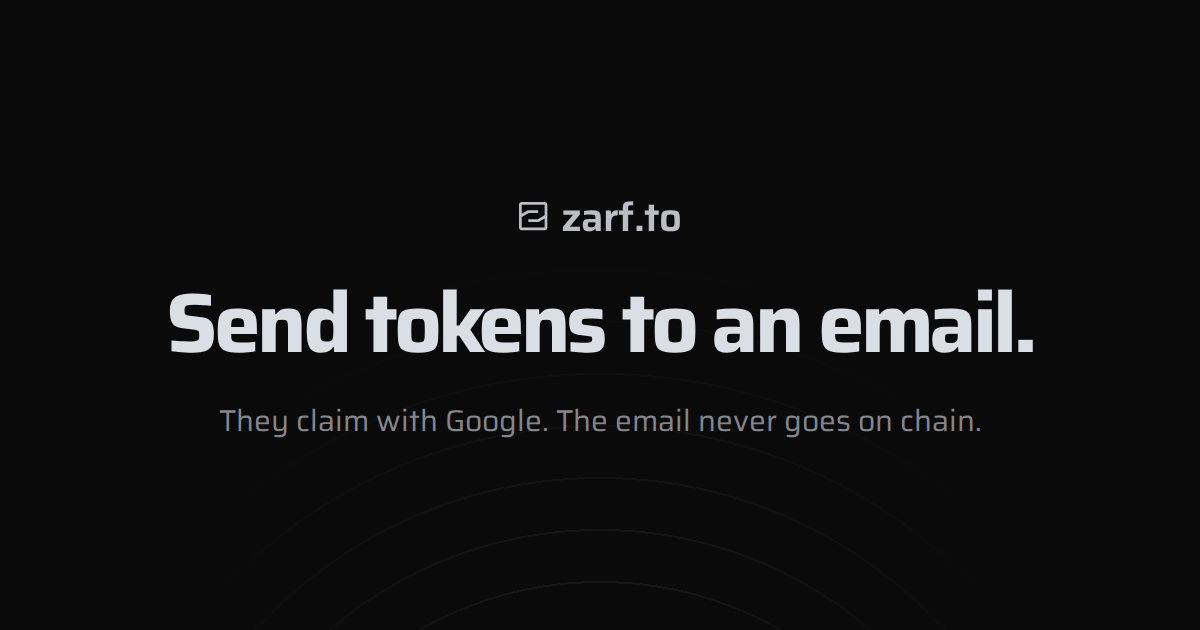
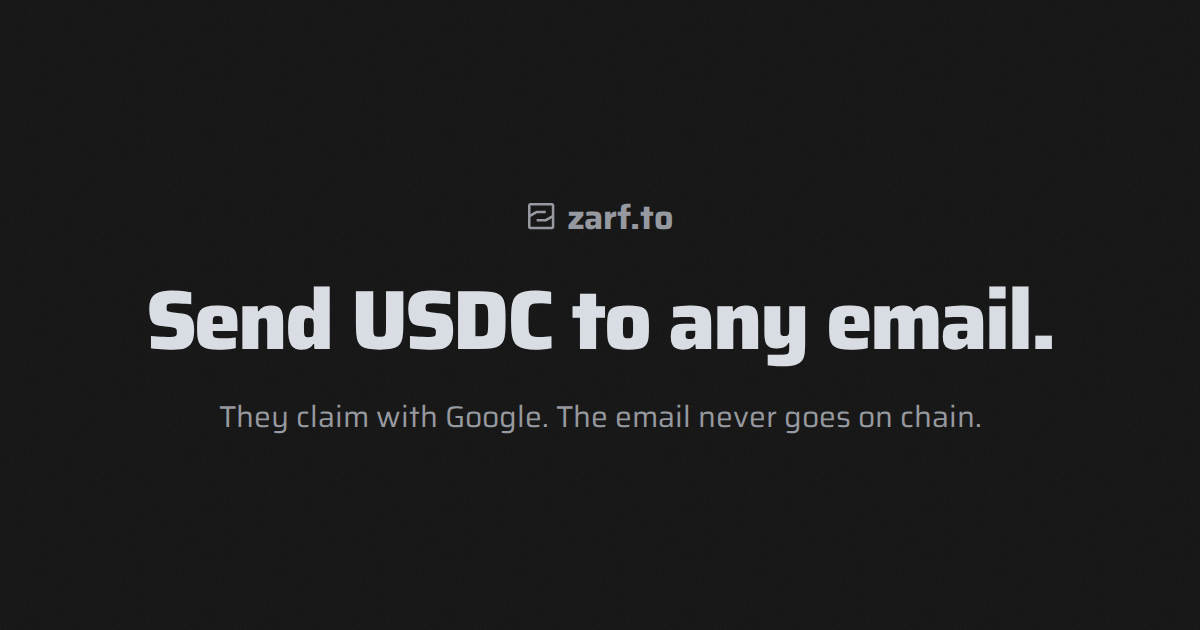
web: newcomer pass on dead ends and empty states; absolute link previews
- Claim link dead ends (broken, incomplete, not found, ended, not valid): no decorative disc, the line
  names the next step, "About Zarf" is a quiet link instead of a "What Is Zarf?" button.
- Receipt opened without a claim: "No Claim Here Yet" and how to claim; no envelope disc.
- /campaigns not connected: one line saying what the page is for and one Connect Wallet button (the
  words appeared three times); no wallet disc; "New Send" is secondary on this page.
- Sign-in return: one line instead of the same advice twice; no marketing button.
- 404: "Go to Zarf", no magnifier disc.
- app.html: og:image and twitter:image absolute (https://near.zarf.to/og.png, the new end card), title and
  description follow the landing hero, twitter:site.

Changed region(s): [[0.1233, 0.4524, 0.8942, 0.6032], [0.185, 0.6333, 0.8017, 0.6937], [0.4317, 0.3016, 0.5858, 0.3921]]

diff --git a/web/src/routes/campaigns/+page.svelte b/web/src/routes/campaigns/+page.svelte
@@ -9,12 +9,11 @@
   import { nearView } from '$lib/services';
   import { deadlineText, timeLeft } from '$lib/claim';
   import { UNIT } from '$lib/network';
-  import { ArrowDownToLine, ArrowUpRight, ChevronDown, Info, Plus, Send, Wallet } from 'lucide-svelte';
+  import { ArrowDownToLine, ArrowUpRight, ChevronDown, Info, Plus } from 'lucide-svelte';
   import Avatar from '$lib/Avatar.svelte';
   import { titleCase } from '$lib/text';
   import Tooltip from '$lib/zarf-kit/components/ui/Tooltip.svelte';
   import ZenBadge from '$lib/zarf-kit/components/ui/ZenBadge.svelte';
-  import Medallion from '$lib/Medallion.svelte';
   import Note from '$lib/Note.svelte';
   import PageHeader from '$lib/zarf-kit/components/ui/PageHeader.svelte';
   import ZenAlert from '$lib/zarf-kit/components/ui/ZenAlert.svelte';
@@ -162,7 +161,7 @@
           <ZenButton variant="ghost" size="sm" disabled={!!busy} onclick={async () => { await wallet?.signOut(); account = null; rows = null; }}>Disconnect</ZenButton>
         </span>
       {/if}
-    <a href="/create" class="inline-block"><ZenButton tabindex={-1} variant="primary" size="lg">
+    <a href="/create" class="inline-block"><ZenButton tabindex={-1} variant="secondary">
       {#snippet iconLeft()}<Plus class="w-4 h-4" />{/snippet}New Send
     </ZenButton></a>
     </div>
@@ -175,11 +174,7 @@
   {:else if !account}
     <ZenCard variant="elevated" padding="lg" class="max-w-lg mx-auto">
       <div class="flex flex-col items-center text-center space-y-6 py-2">
-        <Medallion icon={Wallet} />
-        <div class="space-y-2">
-          <h2 class="text-xl font-bold">Connect Wallet</h2>
-          <p class="text-sm text-zen-fg-muted max-w-xs">The wallet you sent from.</p>
-        </div>
+        <p class="text-sm text-zen-fg-muted max-w-xs">Connect the wallet you sent from to see your sends and take back what is left.</p>
         <ZenButton variant="primary" onclick={connect} disabled={!walletReady}>Connect Wallet</ZenButton>
         {#if walletError}<Note tone="error">{walletError}</Note>{/if}
       </div>
@@ -194,7 +189,6 @@
   {:else if rows.length === 0}
     <ZenCard variant="elevated" padding="lg" class="max-w-lg mx-auto">
       <div class="flex flex-col items-center text-center space-y-6 py-2">
-        <Medallion icon={Send} tone="muted" />
         <div class="space-y-2">
           <h2 class="text-xl font-bold">No Campaigns Yet</h2>
           <p class="text-sm text-zen-fg-muted">Nothing sent from <span class="font-mono">{account}</span> so far.</p>

diff --git a/web/src/routes/auth/google/+page.svelte b/web/src/routes/auth/google/+page.svelte
@@ -1,7 +1,7 @@
 <script lang="ts">
   import { onMount } from 'svelte';
   import { goto } from '$app/navigation';
-  import { AlertTriangle, ChevronDown, Loader2, Mail } from 'lucide-svelte';
+  import { AlertTriangle, ChevronDown, Loader2 } from 'lucide-svelte';
   import { formatAmount } from '$lib/create/recipients';
   import { UNIT } from '$lib/network';
   import { loadAttempt, parseCallback, signedIn, stateMatches } from '$lib/claim';
@@ -23,7 +23,7 @@
     if ('error' in cb) {
       failed = cb.error === 'access_denied'
         ? { title: 'Sign-In Cancelled', line: back ? `${waiting} Sign in again when you are ready.` : 'Open your claim link again to sign in.', cancelled: true }
-        : { title: 'Sign-In Did Not Finish', line: 'Google could not sign you in this time. Try again.', code: cb.error };
+        : { title: 'Sign-In Did Not Finish', line: back ? 'Google could not sign you in this time. Try again from your claim.' : 'Google could not sign you in this time. Open your claim link again to try once more.', code: cb.error };
     } else if (!stateMatches(attempt, cb.state)) {
       failed = { title: 'Sign-In From Another Tab', line: 'Start the sign-in again from your claim.' };
     } else {
@@ -39,18 +39,13 @@
   <ZenCard variant="elevated" padding="lg">
     <div class="flex flex-col items-center text-center gap-4 py-2">
       {#if failed}
-        {#if failed.cancelled}
-          <Medallion icon={Mail} />
-        {:else}
-          <Medallion icon={AlertTriangle} tone="error" />
-        {/if}
+        {#if !failed.cancelled}<Medallion icon={AlertTriangle} tone="error" />{/if}
         <h1 class="text-xl font-bold">{failed.title}</h1>
         <p class="text-sm text-zen-fg-muted max-w-xs" role={failed.cancelled ? 'status' : 'alert'}>{failed.line}</p>
         {#if back}
           <a href={back} class="block w-full sm:w-auto"><ZenButton tabindex={-1} variant="primary" class="w-full sm:w-auto">Back to Claim</ZenButton></a>
         {:else}
-          {#if !failed.cancelled}<p class="text-xs text-zen-fg-muted max-w-xs">Open your claim link again to try once more.</p>{/if}
-          <a href="/" class="inline-block"><ZenButton tabindex={-1} variant="secondary">What Is Zarf?</ZenButton></a>
+          <a href="/" class="text-xs text-zen-fg-subtle underline underline-offset-2 hover:text-zen-fg">About Zarf</a>
         {/if}
         {#if failed.code}
           <details class="group text-xs text-zen-fg-muted">

diff --git a/web/src/app.html b/web/src/app.html
@@ -9,19 +9,22 @@
     <link rel="icon" href="/favicon.svg" type="image/svg+xml" />
     <meta name="theme-color" content="#F8F8FA" media="(prefers-color-scheme: light)" />
     <meta name="theme-color" content="#0A0A0B" media="(prefers-color-scheme: dark)" />
-    <!-- Link previews: every route is the same shell (ssr = false), so a claim link previews as this. -->
+    <!-- Link previews: every route is the same shell (ssr = false), so a claim link previews as this. The image URL is
+         absolute (X and most crawlers ignore a relative og:image); the words follow the landing hero (T-034). -->
     <meta property="og:type" content="website" />
     <meta property="og:site_name" content="Zarf" />
-    <meta property="og:title" content="Zarf: tokens sent to an email" />
-    <meta property="og:description" content="Claim them with a Google sign-in. The email never goes on chain." />
-    <meta property="og:image" content="/og.png" />
+    <meta property="og:url" content="https://near.zarf.to/" />
+    <meta property="og:title" content="Send USDC to any email, from any chain." />
+    <meta property="og:description" content="They claim with Gmail or Google Workspace. The email never goes on chain." />
+    <meta property="og:image" content="https://near.zarf.to/og.png" />
     <meta property="og:image:width" content="1200" />
     <meta property="og:image:height" content="630" />
-    <meta property="og:image:alt" content="Zarf: send tokens to an email." />
+    <meta property="og:image:alt" content="Zarf: Send USDC to any email. They claim with Google." />
     <meta name="twitter:card" content="summary_large_image" />
-    <meta name="twitter:title" content="Zarf: tokens sent to an email" />
-    <meta name="twitter:description" content="Claim them with a Google sign-in. The email never goes on chain." />
-    <meta name="twitter:image" content="/og.png" />
+    <meta name="twitter:site" content="@zarfto" />
+    <meta name="twitter:title" content="Send USDC to any email, from any chain." />
+    <meta name="twitter:description" content="They claim with Gmail or Google Workspace. The email never goes on chain." />
+    <meta name="twitter:image" content="https://near.zarf.to/og.png" />
     <!-- Theme before first paint, as the main claim app's app.html: the saved choice, else dark (saved). -->
     <script nonce="%sveltekit.nonce%">
       (function () {

diff --git a/web/src/routes/claim/[campaign]/[commitment]/receipt/+page.svelte b/web/src/routes/claim/[campaign]/[commitment]/receipt/+page.svelte
@@ -7,7 +7,7 @@
   import ClaimRecord from '$lib/ClaimRecord.svelte';
   import { canRetry, ClaimError, describeError, errorCode, failureHeading, getClaimState, isUnmapped, relayAndSettle, requestSignature, starterLine, submitClaim } from '$lib/services';
   import { formatAmount } from '$lib/create/recipients';
-  import { AlertTriangle, ArrowUpRight, Check, CheckCircle2, ChevronDown, Clock, ExternalLink, Loader2, Mail, Undo2 } from 'lucide-svelte';
+  import { AlertTriangle, ArrowUpRight, Check, CheckCircle2, ChevronDown, Clock, ExternalLink, Loader2, Undo2 } from 'lucide-svelte';
   import AmountPanel from '$lib/AmountPanel.svelte';
   import Avatar from '$lib/Avatar.svelte';
   import Steps from '$lib/Steps.svelte';
@@ -292,20 +292,19 @@
       {:else if stored}
         <ClaimRecord r={stored} amount={stored.amount} {contract} campaign={campaignId} commitment={commitmentId} />
       {:else if !resumed && (!ok || !attempt)}
-        <Medallion icon={Mail} tone="muted" />
         {#if claimStartedHere(attempt, campaignId, commitmentId)}
           <!-- Reloaded mid-claim: the sign-in was in memory only; the claim page reads where it stands on chain -->
           <h1 class="text-xl font-bold">Page Reloaded</h1>
           <p class="text-sm text-zen-fg-muted max-w-xs">Your claim may still be on its way. Open it to see where it stands.</p>
         {:else}
-          <h1 class="text-xl font-bold">Nothing to Show Yet</h1>
-          <p class="text-sm text-zen-fg-muted max-w-xs">This page shows your claim after you sign in with Google.</p>
+          <h1 class="text-xl font-bold">No Claim Here Yet</h1>
+          <p class="text-sm text-zen-fg-muted max-w-xs">Open the claim link from your message to claim. This page then shows the payment.</p>
           {#if passkeyOn}<PasskeyAccount label="Claimed with Face ID? Open Your Account" />{/if}
         {/if}
         {#if canGoBack}
           {@render back()}
         {:else}
-          <a href="/" class="inline-block"><ZenButton tabindex={-1} variant="secondary">What Is Zarf?</ZenButton></a>
+          <a href="/" class="text-xs text-zen-fg-subtle underline underline-offset-2 hover:text-zen-fg">About Zarf</a>
         {/if}
       {:else if payout}
         {@const outcome = bridgeView?.outcome ?? 'in-transit'}

diff --git a/web/src/routes/claim/[campaign]/[commitment]/+page.svelte b/web/src/routes/claim/[campaign]/[commitment]/+page.svelte
@@ -272,7 +272,8 @@
 <!-- Terminal states: the main claim app's LoginPrompt anatomy (64 px medallion, bold title, one line, one button) -->
 {#snippet terminal(Icon: typeof Mail, tone: 'success' | 'error' | 'muted', title: string, line: string, action: 'home' | 'recheck' | 'none')}
   <div class="flex flex-col items-center text-center space-y-6 py-2" in:swapIn>
-    <Medallion icon={Icon} {tone} />
+    <!-- A disc only where it carries a verdict (red error); a neutral dead end needs no decoration (T-034) -->
+    {#if tone !== 'muted'}<Medallion icon={Icon} {tone} />{/if}
     <div class="space-y-2">
       <h1 class="text-xl font-bold text-zen-fg">{title}</h1>
       <p class="text-sm text-zen-fg-muted leading-relaxed max-w-xs" role={tone === 'error' ? 'alert' : undefined}>{line}</p>
@@ -280,7 +281,8 @@
     {#if action === 'recheck'}
       <ZenButton variant="primary" class="w-full sm:w-auto" onclick={() => link && checkLink(link)}>Check Again</ZenButton>
     {:else if action === 'home'}
-      <a href="/" class="inline-block"><ZenButton tabindex={-1} variant="secondary">What Is Zarf?</ZenButton></a>
+      <!-- A recipient at a dead end is told the next step in the line above; Zarf itself is only a quiet link -->
+      <a href="/" class="text-xs text-zen-fg-subtle underline underline-offset-2 hover:text-zen-fg">About Zarf</a>
     {/if}
   </div>
 {/snippet}
@@ -331,7 +333,7 @@
     {:else if check === 'pending'}
       {@render terminal(Clock, 'muted', 'Payment in Progress', 'It usually settles within a minute.', 'recheck')}
     {:else if check === 'ended'}
-      {@render terminal(Clock, 'muted', 'Campaign Ended', `Claims closed on ${deadline}. Ask the sender.`, 'home')}
+      {@render terminal(Clock, 'muted', 'Campaign Ended', `Claims closed on ${deadline}. Ask the sender to send it again.`, 'home')}
     {:else if check === 'error'}
       {@render terminal(AlertTriangle, 'error', "Couldn't Check Claim", checkError, 'recheck')}
     {:else if loaded && check === 'checking'}

diff --git a/web/src/routes/+error.svelte b/web/src/routes/+error.svelte
@@ -1,7 +1,7 @@
 <script lang="ts">
   // After the main claim app's +error.svelte: icon + mono status, one title, one line, one way home.
   import { page } from '$app/state';
-  import { AlertTriangle, SearchX } from 'lucide-svelte';
+  import { AlertTriangle } from 'lucide-svelte';
   import Medallion from '$lib/Medallion.svelte';
   import ZenButton from '$lib/zarf-kit/components/ui/ZenButton.svelte';
   import ZenCard from '$lib/zarf-kit/components/ui/ZenCard.svelte';
@@ -14,7 +14,6 @@
   <ZenCard variant="elevated" padding="lg">
     <div class="flex flex-col items-center text-center space-y-6 py-2">
       {#if page.status === 404}
-        <Medallion icon={SearchX} tone="muted" />
         <div class="space-y-2">
           <h1 class="text-xl font-bold">Page Not Found</h1>
           <p class="text-sm text-zen-fg-muted max-w-xs">Following a claim link? Open it in full from your message.</p>
@@ -26,7 +25,7 @@
           <p class="text-sm text-zen-fg-muted max-w-xs">Try again in a minute.</p>
         </div>
       {/if}
-      <a href="/" class="inline-block"><ZenButton tabindex={-1} variant="secondary">What Is Zarf?</ZenButton></a>
+      <a href="/" class="inline-block"><ZenButton tabindex={-1} variant="secondary">Go to Zarf</ZenButton></a>
     </div>
   </ZenCard>
 </div>
